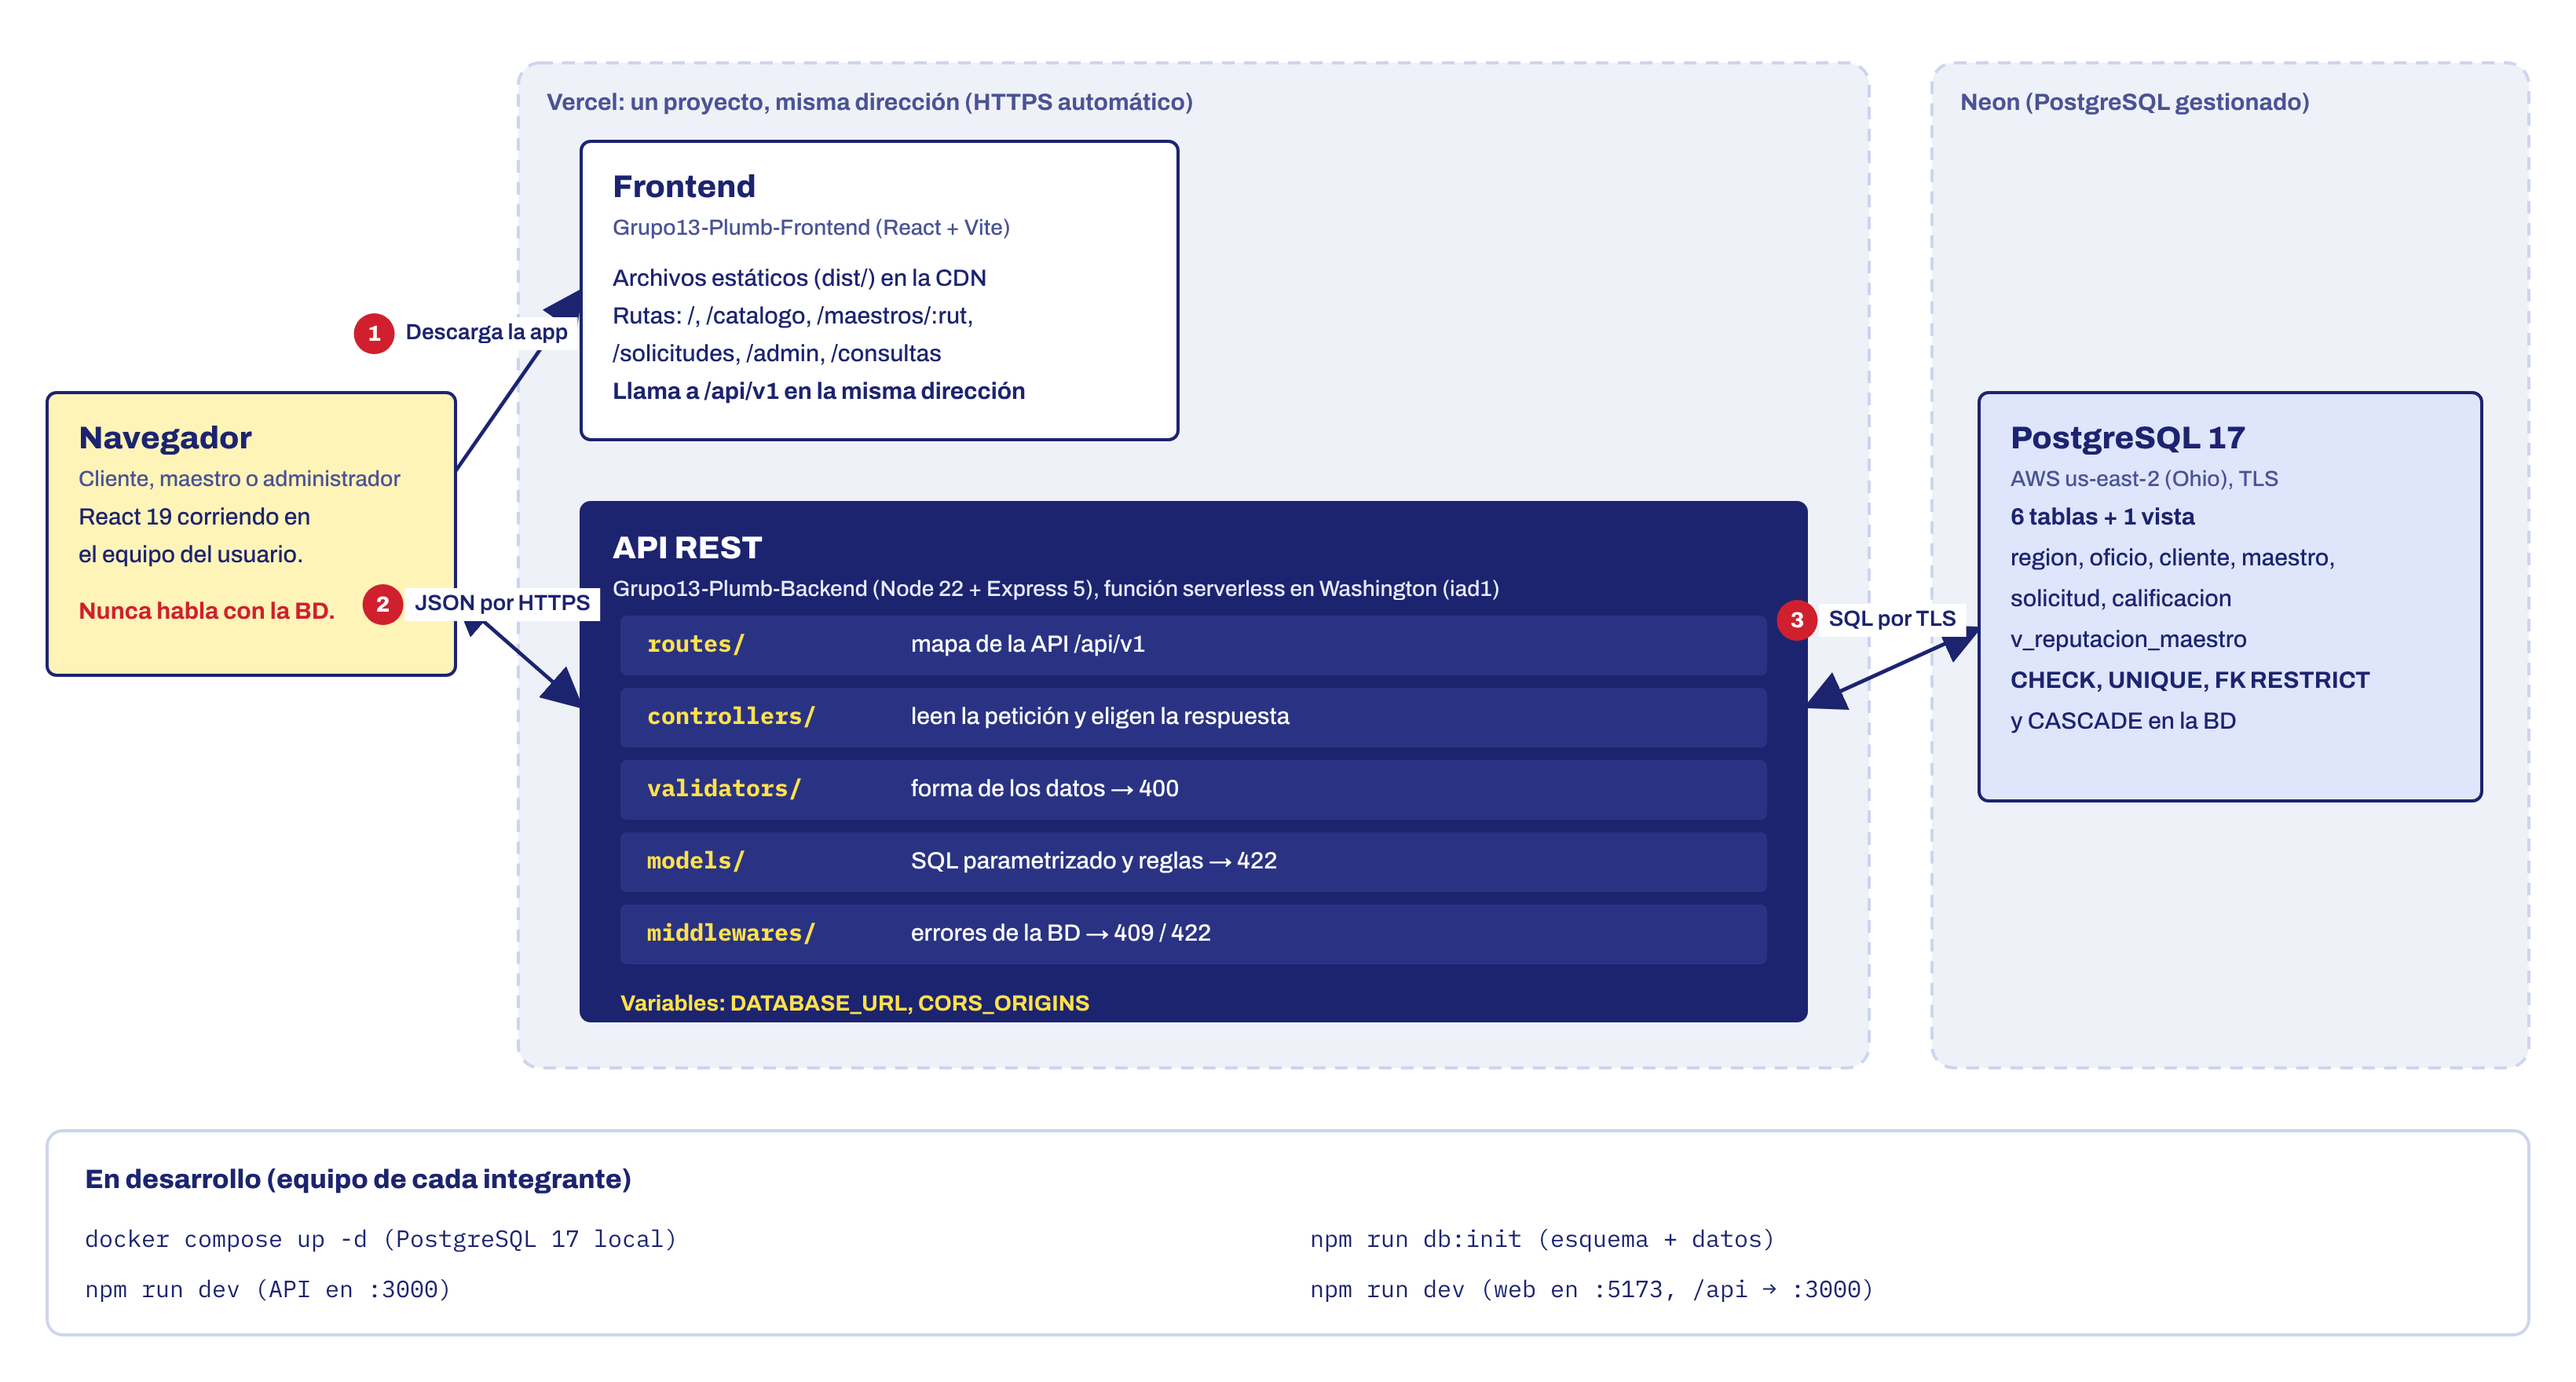
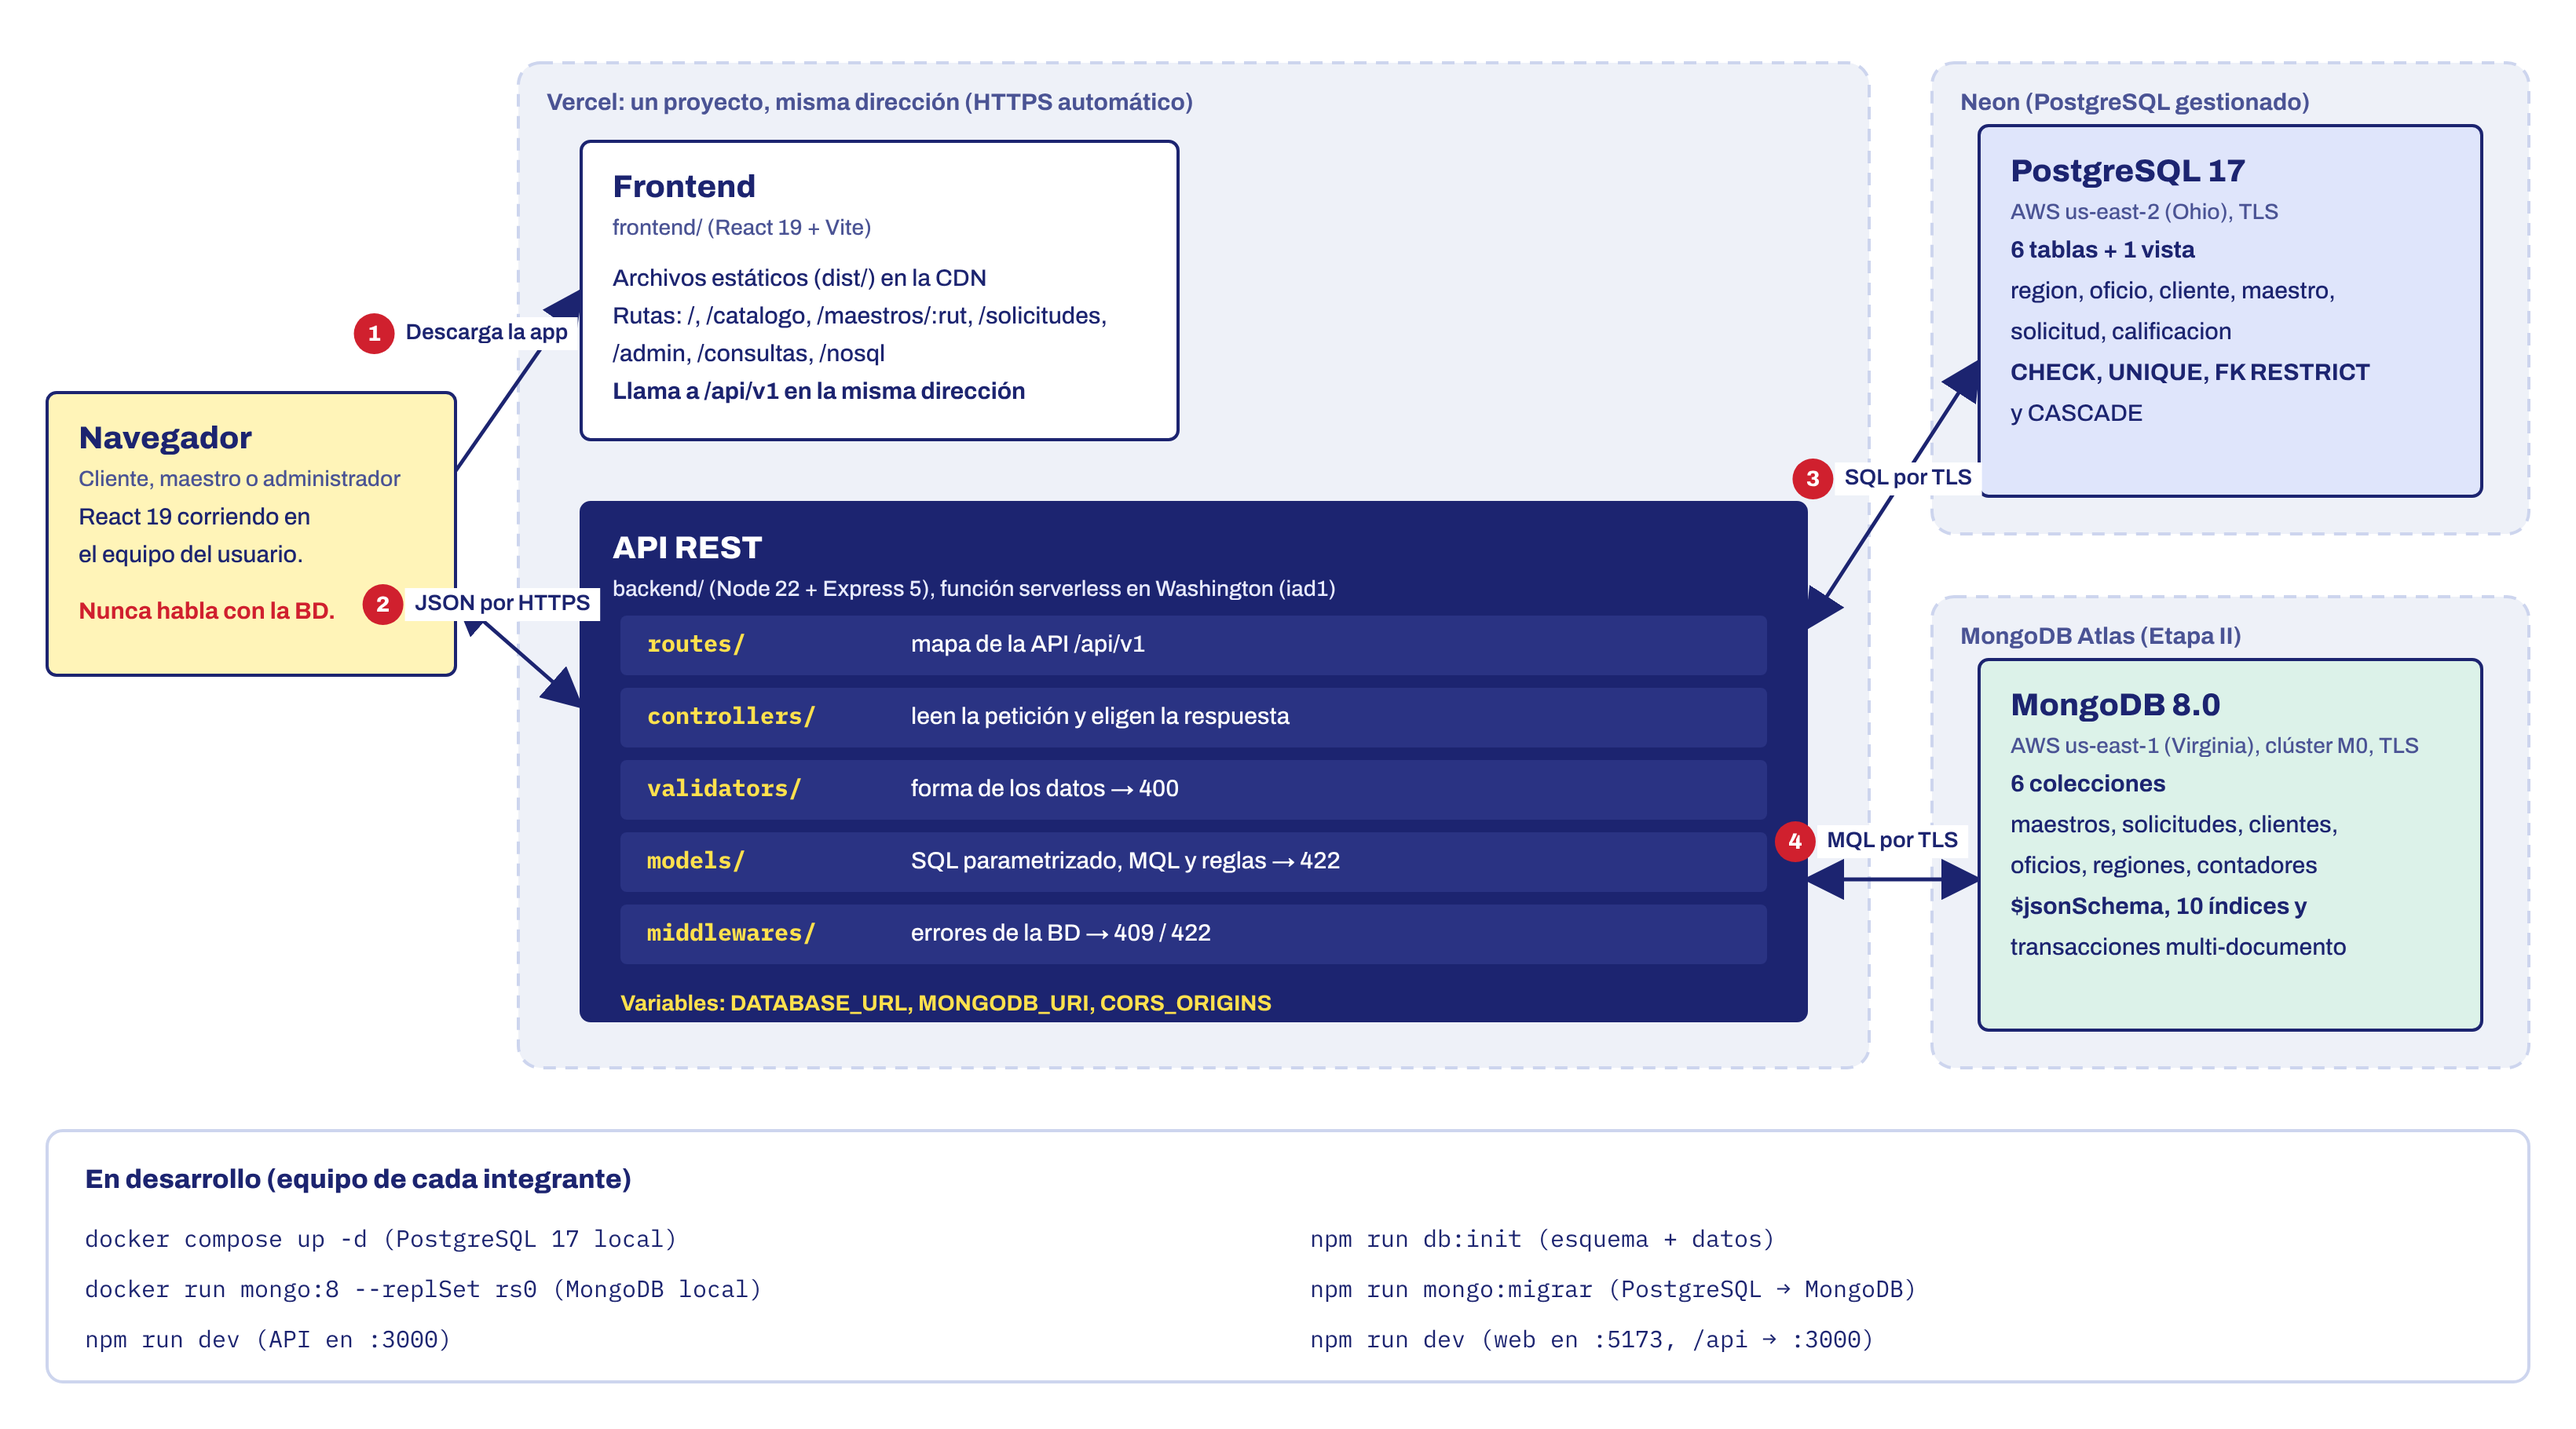
Agregar MongoDB Atlas a la arquitectura y el diagrama del modelo de documentos

diff --git a/docs/diagramas/fuentes/diagramas.py b/docs/diagramas/fuentes/diagramas.py
@@ -482,7 +482,7 @@ def modelo_relacional():
 # ---------------------------------------------------------------- Arquitectura
 
 def arquitectura():
-    l = Lienzo(1640, 880, 'Arquitectura y despliegue de Plumb')
+    l = Lienzo(1640, 910, 'Arquitectura y despliegue de Plumb')
 
     def caja(x, y, w, h, titulo, subtitulo, relleno='#FFFFFF', borde=TINTA, color_titulo=TINTA):
         l.add('formas', f'<rect x="{x}" y="{y}" width="{w}" height="{h}" rx="6" fill="{relleno}" stroke="{borde}" stroke-width="2"/>')
@@ -496,7 +496,8 @@ def arquitectura():
 
     # Zonas
     nube(330, 40, 860, 640, 'Vercel: un proyecto, misma dirección (HTTPS automático)')
-    nube(1230, 40, 380, 640, 'Neon (PostgreSQL gestionado)')
+    nube(1230, 40, 380, 300, 'Neon (PostgreSQL gestionado)')
+    nube(1230, 380, 380, 300, 'MongoDB Atlas (Etapa II)')
 
     # Navegador
     caja(30, 250, 260, 180, 'Navegador', 'Cliente, maestro o administrador', CANARIO_CLARO)
@@ -505,28 +506,33 @@ def arquitectura():
     l.texto(50, 390, 'Nunca habla con la BD.', 15, 700, FOLIO, 'start')
 
     # Frontend
-    caja(370, 90, 380, 190, 'Frontend', 'Grupo13-Plumb-Frontend (React + Vite)')
-    for i, t in enumerate(['Archivos estáticos (dist/) en la CDN', 'Rutas: /, /catalogo, /maestros/:rut,', '/solicitudes, /admin, /consultas',
+    caja(370, 90, 380, 190, 'Frontend', 'frontend/ (React 19 + Vite)')
+    for i, t in enumerate(['Archivos estáticos (dist/) en la CDN', 'Rutas: /, /catalogo, /maestros/:rut, /solicitudes,', '/admin, /consultas, /nosql',
                            'Llama a /api/v1 en la misma dirección']):
         l.texto(390, 178 + i * 24, t, 15, 500 if i < 3 else 700, TINTA, 'start', familia=FUENTE)
 
     # API
-    caja(370, 320, 780, 330, 'API REST', 'Grupo13-Plumb-Backend (Node 22 + Express 5), función serverless en Washington (iad1)', TINTA, TINTA, '#FFFFFF')
+    caja(370, 320, 780, 330, 'API REST', 'backend/ (Node 22 + Express 5), función serverless en Washington (iad1)', TINTA, TINTA, '#FFFFFF')
     capas = [('routes/', 'mapa de la API /api/v1'), ('controllers/', 'leen la petición y eligen la respuesta'),
-             ('validators/', 'forma de los datos → 400'), ('models/', 'SQL parametrizado y reglas → 422'),
+             ('validators/', 'forma de los datos → 400'), ('models/', 'SQL parametrizado, MQL y reglas → 422'),
              ('middlewares/', 'errores de la BD → 409 / 422')]
     for i, (c, d) in enumerate(capas):
         yy = 410 + i * 46
         l.add('formas', f'<rect x="395" y="{yy - 18}" width="730" height="38" rx="4" fill="#2A3383"/>')
         l.texto(412, yy + 1, c, 15, 700, CANARIO, 'start', familia=MONO)
         l.texto(580, yy + 1, d, 15, 500, '#FFFFFF', 'start')
-    l.texto(395, 640, 'Variables: DATABASE_URL, CORS_ORIGINS', 14, 700, CANARIO, 'start')
+    l.texto(395, 640, 'Variables: DATABASE_URL, MONGODB_URI, CORS_ORIGINS', 14, 700, CANARIO, 'start')
 
     # BD
-    caja(1260, 250, 320, 260, 'PostgreSQL 17', 'AWS us-east-2 (Ohio), TLS', AZUL_CLARO)
+    caja(1260, 80, 320, 236, 'PostgreSQL 17', 'AWS us-east-2 (Ohio), TLS', AZUL_CLARO)
     for i, t in enumerate(['6 tablas + 1 vista', 'region, oficio, cliente, maestro,', 'solicitud, calificacion',
-                           'v_reputacion_maestro', 'CHECK, UNIQUE, FK RESTRICT', 'y CASCADE en la BD']):
-        l.texto(1280, 330 + i * 26, t, 15, 700 if i in (0, 4) else 500, TINTA, 'start')
+                           'CHECK, UNIQUE, FK RESTRICT', 'y CASCADE']):
+        l.texto(1280, 160 + i * 26, t, 15, 700 if i in (0, 3) else 500, TINTA, 'start')
+
+    caja(1260, 420, 320, 236, 'MongoDB 8.0', 'AWS us-east-1 (Virginia), clúster M0, TLS', VERDE_CLARO)
+    for i, t in enumerate(['6 colecciones', 'maestros, solicitudes, clientes,', 'oficios, regiones, contadores',
+                           '$jsonSchema, 10 índices y', 'transacciones multi-documento']):
+        l.texto(1280, 500 + i * 26, t, 15, 700 if i in (0, 3) else 500, TINTA, 'start')
 
     # Flujos
     def flecha(x1, y1, x2, y2, num, texto, dx=0, dy=-16, doble=False):
@@ -538,12 +544,14 @@ def arquitectura():
 
     flecha(290, 300, 370, 185, 1, 'Descarga la app', dx=-20, dy=-30)
     flecha(290, 380, 370, 450, 2, 'JSON por HTTPS', dx=-10, dy=-30, doble=True)
-    flecha(1150, 450, 1260, 400, 3, 'SQL por TLS', dx=0, dy=-30, doble=True)
+    flecha(1150, 400, 1260, 230, 3, 'SQL por TLS', dx=10, dy=-10, doble=True)
+    flecha(1150, 560, 1260, 560, 4, 'MQL por TLS', dx=0, dy=-24, doble=True)
 
     # Desarrollo local
-    l.add('fondo', f'<rect x="30" y="720" width="1580" height="130" rx="10" fill="#FFFFFF" stroke="{PAUTA}" stroke-width="2"/>')
+    l.add('fondo', f'<rect x="30" y="720" width="1580" height="160" rx="10" fill="#FFFFFF" stroke="{PAUTA}" stroke-width="2"/>')
     l.texto(54, 752, 'En desarrollo (equipo de cada integrante)', 17, 800, TINTA, 'start')
     pasos = ['docker compose up -d  (PostgreSQL 17 local)', 'npm run db:init  (esquema + datos)',
+             'docker run mongo:8 --replSet rs0  (MongoDB local)', 'npm run mongo:migrar  (PostgreSQL → MongoDB)',
              'npm run dev  (API en :3000)', 'npm run dev  (web en :5173, /api → :3000)']
     for i, t in enumerate(pasos):
         l.texto(54 + (i % 2) * 780, 790 + (i // 2) * 32, t, 15, 500, TINTA, 'start', familia=MONO)

diff --git a/docs/diagramas/README.md b/docs/diagramas/README.md
@@ -1,4 +1,4 @@
-# Grupo13-Plumb-Diagramas
+# diagramas
 
 | Archivo | Diagrama |
 |---|---|
@@ -8,7 +8,8 @@
 | `secuencia_respuesta.png` | Secuencia del CU-02, el maestro responde |
 | `modelo_er.png` / `.svg` | Modelo entidad-relación (notación de Chen) |
 | `modelo_relacional.png` / `.svg` | Modelo relacional (pata de gallo) |
-| `arquitectura.png` / `.svg` | Arquitectura y despliegue |
-| `mockups/` | Seis mockups de alta fidelidad anotados |
+| `arquitectura.png` / `.svg` | Arquitectura y despliegue (Vercel, Neon y MongoDB Atlas) |
+| `modelo_documentos.png` | Etapa II: modelo de documentos en MongoDB (colecciones, embebidos y referencias) |
+| `mockups/` | Etapa I: seis mockups de alta fidelidad anotados (los del Control 2 están en `../mockups/`) |
 | `diapositivas/` | Versiones simplificadas con letra grande, para proyectar |
 | `fuentes/` | Fuentes: `.puml` (PlantUML) y `diagramas.py` (genera los SVG) |
